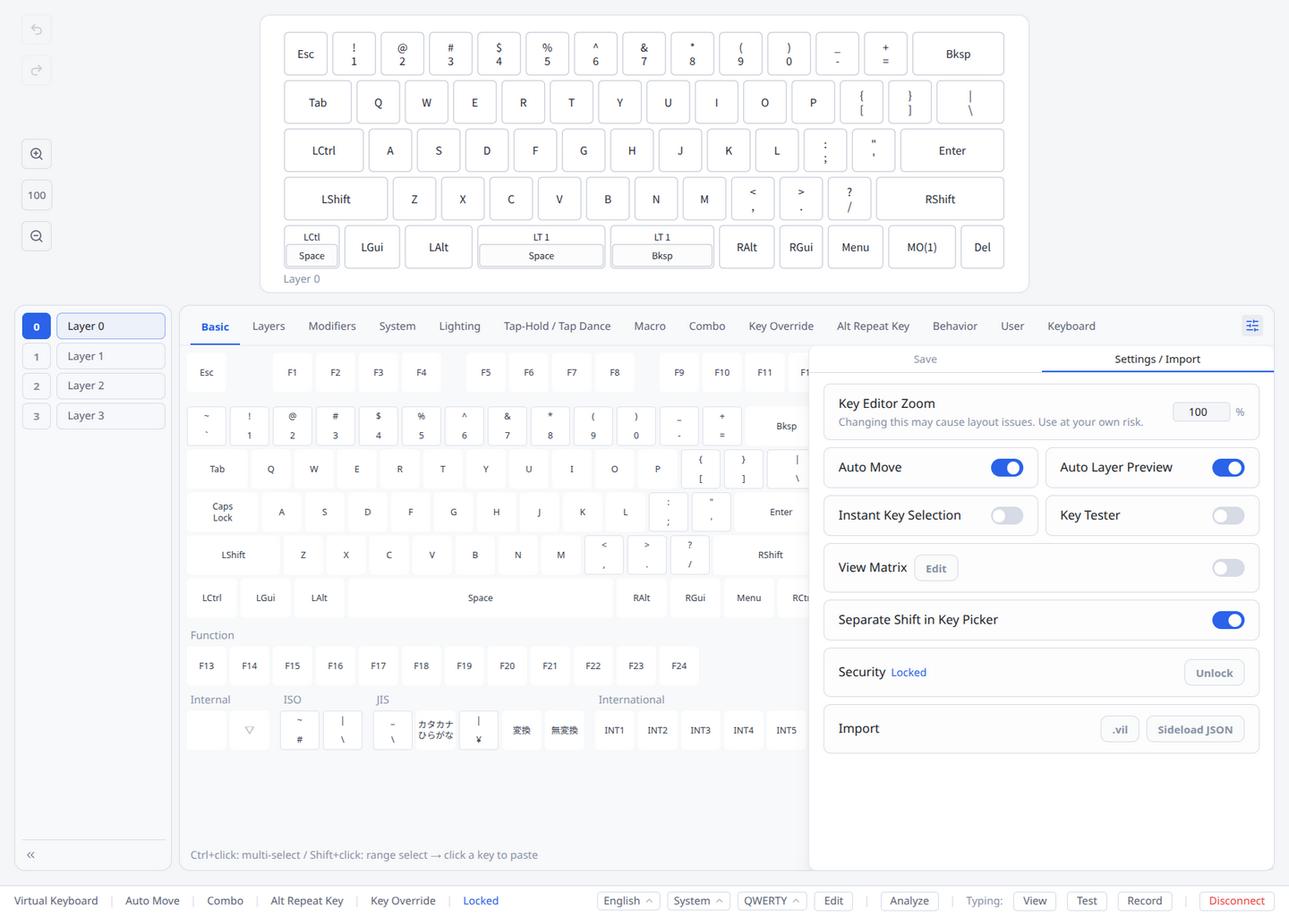
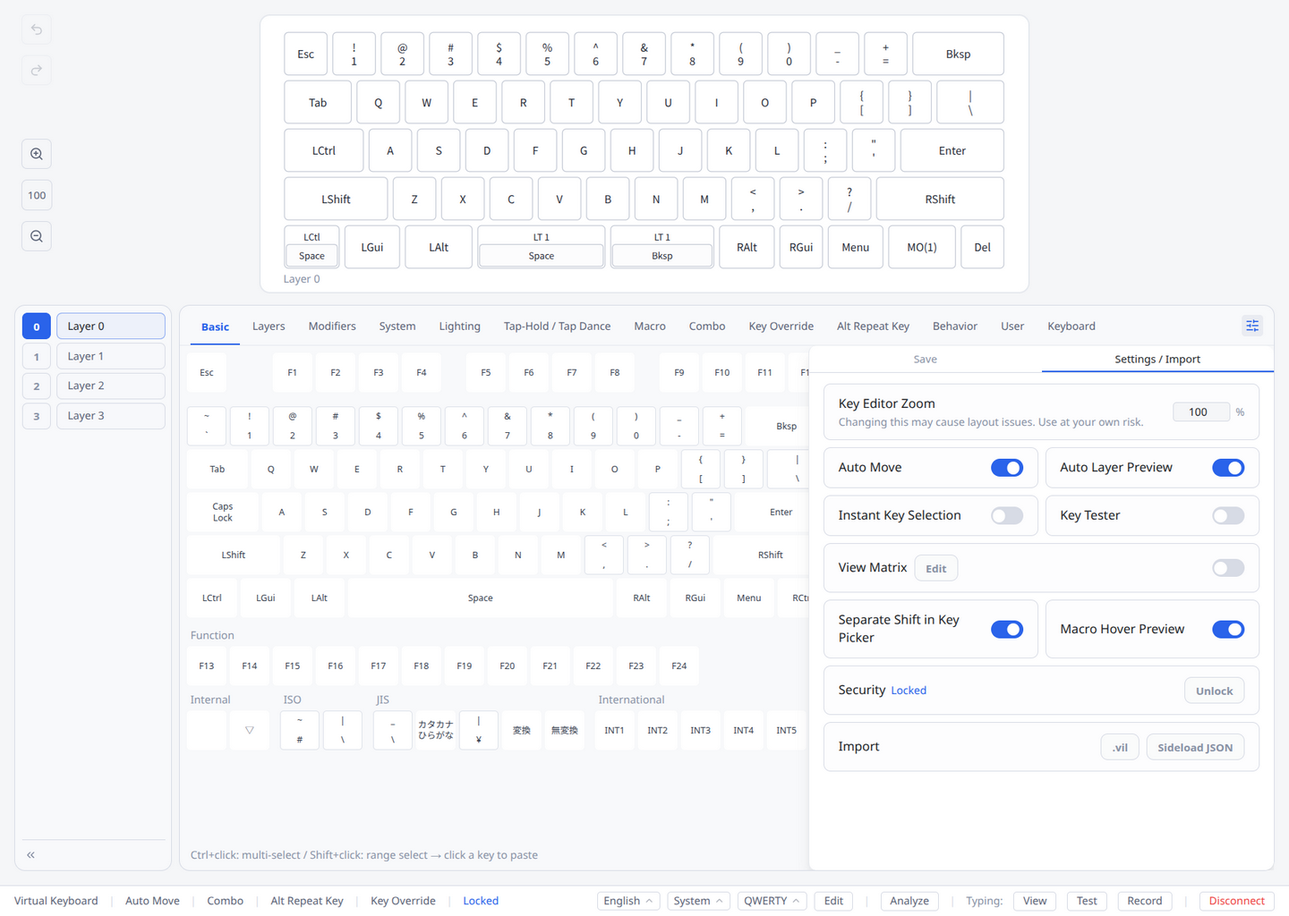
docs: describe the macro hover tooltip and the Macro Hover Preview setting

Changed region(s): [[0.75, 0.6562, 0.9688, 0.8438], [0.6562, 0.6875, 0.7188, 0.8438]]

diff --git a/docs/guide.html b/docs/guide.html
@@ -869,6 +869,9 @@ header {
 <p><strong>Layer preview on hover (Auto Layer Preview)</strong></p>
 <p>Rest the pointer on a layer key (<code class="ic">MO</code>, <code class="ic">LT</code>, <code class="ic">TG</code>, <code class="ic">TO</code>, <code class="ic">TT</code>, <code class="ic">OSL</code>, <code class="ic">DF</code>, <code class="ic">PDF</code>, <code class="ic">LM</code>) for about 0.3 seconds and the whole keyboard shows the layer that key switches to, with the label under the keymap reading "Preview - Layer N" (or "Preview - " followed by the layer's own name, if it has one). The preview is display only — the current layer, the key selection and the undo history don't change.</p>
 <ul><li>On keys with an inner part (e.g. <code class="ic">LT1(KC_SPC)</code>), only the upper (outer) part starts the preview; moving onto the inner key hides it so the inner key can be selected. The key under the pointer keeps showing its own content during the preview</li><li>Moving the pointer off the key returns to the current layer immediately</li><li>Clicks, double-clicks and middle-clicks always act on the current layer — the preview is dismissed first</li><li>Layer keys assigned to encoders don't start a preview</li><li>There is no preview in View Matrix mode, on the Key Label simulation tab, while keys are multi-selected, while palette keycodes are selected for pasting, or while the Key Popover is open</li><li>Turn it on or off with <strong>Auto Layer Preview</strong> in the Keycodes Overlay Panel's Settings / Import tab (§3.14). Saved and synced per keyboard; on by default</li></ul>
+<p><strong>Macro contents on hover (Macro Hover Preview)</strong></p>
+<p>Rest the pointer on a key whose keycode is a macro (<code class="ic">M0</code>, <code class="ic">M1</code>, …) for about 0.3 seconds and a tooltip shows the whole macro: its number, then every action on its own line with the same letters the Macro tab tiles use (<code class="ic">T</code> tap, <code class="ic">D</code> down, <code class="ic">U</code> up, <code class="ic">Tx</code> text, <code class="ic">W</code> wait) and the full keycodes or text, nothing cut off. This works while the keyboard is locked, so you can read a macro without unlocking it (editing a macro still requires unlocking).</p>
+<ul><li>The half of an encoder (clockwise or counter-clockwise) works the same way when that direction is assigned a macro</li><li>The macro is found from the key's actual keycode on the current layer, so a Key Label pack that relabels the key doesn't change which macro is shown</li><li>A long macro is split into several columns to fit on screen; long text wraps and keeps its spaces and line breaks</li><li>Empty macros show no tooltip</li><li>Nothing is shown in the same situations as the layer preview above (View Matrix mode, the Key Label simulation tab, multi-selected keys, palette keycodes selected for pasting, the Key Popover open). It doesn't depend on Auto Layer Preview — it still works with that turned off</li><li>The Macro tab tiles of the key picker show the same tooltip (§3.7)</li><li>Turn it on or off with <strong>Macro Hover Preview</strong> in the Keycodes Overlay Panel's Settings / Import tab (§3.14). Saved and synced per keyboard; on by default</li></ul>
 <h3 id="2-4-key-popover">2.4 Key Popover</h3>
 <p>Double-click a key on the keyboard layout to open the Key Popover — a quick way to search and assign keycodes without scrolling through the palette.</p>
 <p><strong>Layer Sidebar</strong></p>
@@ -966,7 +969,7 @@ header {
 <div class="img-wrap"><img src="screenshots/tab-macro.png" alt="Macro Tab" class="doc-img" loading="lazy"></div>
 <p>The Macro section displays a <strong>tile grid preview</strong> showing all entries at a glance:</p>
 <div class="img-wrap"><img src="screenshots/macro-tile-grid.png" alt="Macro Tile Grid" class="doc-img" loading="lazy"></div>
-<ul><li>Each tile shows the macro number and a preview of the recorded sequence</li><li>Configured entries display a summary of key actions; unconfigured tiles show the number only</li><li>Click a tile to open the Macro edit modal directly to that entry</li><li>Record sequences of key inputs as macros</li><li><strong>Edit JSON</strong> button at the bottom opens a JSON editor for bulk editing all entries (see §5.6)</li></ul>
+<ul><li>Each tile shows the macro number and a preview of the recorded sequence</li><li>Configured entries display a summary of key actions; unconfigured tiles show the number only</li><li>A tile has room for only a few actions and cuts long labels short. Rest the pointer on a configured tile for about 0.3 seconds to see the whole macro in a tooltip — every action, in full (the same tooltip as on the keymap, see §2.3). It works while the keyboard is locked, and also in the Macro tab of the key pickers inside the Tap Dance, Combo, Key Override, Alt Repeat Key and Macro editors. Turn it off with <strong>Macro Hover Preview</strong> (§3.14)</li><li>Click a tile to open the Macro edit modal directly to that entry</li><li>Record sequences of key inputs as macros</li><li><strong>Edit JSON</strong> button at the bottom opens a JSON editor for bulk editing all entries (see §5.6)</li></ul>
 <h4 id="macro-edit-modal-list-mode-and-edit-mode">Macro Edit Modal — List Mode and Edit Mode</h4>
 <p>Opening a macro action brings up the Macro Modal with two display modes that share the same row:</p>
 <ul><li><strong>List mode</strong> (default): The action's keycodes are shown as clickable tiles followed by a dashed <strong>add slot</strong>. Single-click a keycode tile to switch that index into edit mode. Single-click the dashed add slot to select it; double-click the dashed slot to open the keycode popover with an empty query (mirrors the keymap editor). The pencil "edit" icon from earlier versions is gone — clicking is the only affordance</li><li><strong>Edit mode</strong>: The keycode picker stays visible below the row. Each keycode tile shows a hover <strong>X</strong> button to delete that index, and the Tap row exposes a <strong>Close</strong> button to leave edit mode. Picker and popover selections are <strong>staged</strong> — they update the row visually but are not committed until you press the bottom <strong>Save</strong> button or <strong>Enter</strong>. The footer also shows a <strong>Revert</strong> ConfirmButton when you are editing an action that already existed (it is hidden when you just added the action via Add Action, since there is nothing prior to revert to). Save and Revert are disabled until a pick actually changes something. Pressing <strong>Escape</strong>, the per-row <strong>Close</strong> button, <strong>Revert</strong>, or clicking outside the picker / action list / footer / key popover rolls back the entire in-flight edit — including newly-appended Add-keycode slots or an entirely newly-added action — and leaves edit mode. Deleting a slot during edit shifts the selection so the session continues rather than exiting.</li></ul>
@@ -1022,8 +1025,8 @@ header {
 <p>The Keycodes Overlay Panel provides quick access to editor tools and save functions. Toggle it with the panel button at the right end of the keycode tab bar.</p>
 <p><strong>Settings / Import Tab</strong></p>
 <div class="img-wrap"><img src="screenshots/overlay-tools.png" alt="Overlay Panel — Settings / Import" class="doc-img" loading="lazy"></div>
-<p>Auto Move and Auto Layer Preview share one row, and Instant Key Selection and Key Tester share the next, two toggles side by side. The other settings take a full row each.</p>
-<ul><li><strong>Key Editor Zoom</strong>: Set the UI zoom level (50–200%) applied while in key editor mode. Defaults to the global UI zoom (§6.5) when not configured. Saved and synced per keyboard</li><li><strong>Auto Move</strong>: Toggle automatic advancement to the next key after assigning a keycode</li><li><strong>Auto Layer Preview</strong>: Toggle the layer preview shown while the pointer rests on a layer key (see §2.3). Saved and synced per keyboard; on by default</li><li><strong>Instant Key Selection</strong>: Toggle instant key selection mode (see §2.2 for behavior details)</li><li><strong>Key Tester</strong>: Toggle Matrix Tester mode (supported keyboards only)</li><li><strong>View Matrix</strong>: <strong>Edit</strong> / <strong>Done</strong> enters or leaves View Matrix mode to customize the Auto Move key order; the unlabelled toggle switch at the right edge of the same row (<strong>Wires</strong>) shows or hides the matrix wiring overlay on the keymap, independently of Edit mode (see §2.6)</li><li><strong>Separate Shift in Key Picker</strong>: Toggle split display for combined keycodes (e.g., show Mod-Tap as two halves)</li><li><strong>Security</strong>: Shows lock status (Locked/Unlocked) with a button that follows it — <strong>Unlock</strong> while locked, <strong>Lock</strong> while unlocked. Unlock opens the Unlock dialog (stays disabled until the lock status has been confirmed, to avoid opening it against a stale placeholder state). Lock locks immediately if Typing Record (§4.3) is off; if Typing Record is on, it instead asks for confirmation ("Turn off Record and lock?") and, once confirmed, turns Record off before locking</li><li><strong>Import</strong>: Restore from <code class="ic">.vil</code> files or sideload custom JSON definitions. Restoring a <code class="ic">.vil</code> file writes it to the keyboard field by field; if a write fails partway through, Pipette writes back the keyboard state it was holding just before the restore started — the state shown in the editor, not a fresh read from the device (this assumes the keyboard's shape hasn't changed — it is not a guaranteed byte-exact restore) and shows one of two messages depending on whether that write-back itself succeeded: <strong>"Writing to the keyboard failed. The previous settings were restored."</strong>, or, if the write-back also failed, <strong>"Writing to the keyboard failed and the previous settings could not be restored. Reconnect the keyboard and load a saved snapshot."</strong> This and every other error shown in the bar below the editor (failed save, failed load, failed sideload) clears itself after about 10 seconds, or immediately via its own × button. The red error boxes on the device selection screen (failed device connection, failed file load) and in the Keyboard tab's File source (§3.13) behave the same way, clearing after about 10 seconds or immediately via their own × button</li><li><strong>Reset Keyboard Data</strong>: Reset keyboard to factory defaults</li></ul>
+<p>Auto Move and Auto Layer Preview share one row, Instant Key Selection and Key Tester share the next, and Separate Shift in Key Picker and Macro Hover Preview share another, two toggles side by side. The other settings take a full row each.</p>
+<ul><li><strong>Key Editor Zoom</strong>: Set the UI zoom level (50–200%) applied while in key editor mode. Defaults to the global UI zoom (§6.5) when not configured. Saved and synced per keyboard</li><li><strong>Auto Move</strong>: Toggle automatic advancement to the next key after assigning a keycode</li><li><strong>Auto Layer Preview</strong>: Toggle the layer preview shown while the pointer rests on a layer key (see §2.3). Saved and synced per keyboard; on by default</li><li><strong>Instant Key Selection</strong>: Toggle instant key selection mode (see §2.2 for behavior details)</li><li><strong>Key Tester</strong>: Toggle Matrix Tester mode (supported keyboards only)</li><li><strong>View Matrix</strong>: <strong>Edit</strong> / <strong>Done</strong> enters or leaves View Matrix mode to customize the Auto Move key order; the unlabelled toggle switch at the right edge of the same row (<strong>Wires</strong>) shows or hides the matrix wiring overlay on the keymap, independently of Edit mode (see §2.6)</li><li><strong>Separate Shift in Key Picker</strong>: Toggle split display for combined keycodes (e.g., show Mod-Tap as two halves)</li><li><strong>Macro Hover Preview</strong>: Toggle the tooltip that shows a macro's full contents while the pointer rests on a macro key, a macro encoder direction or a Macro tab tile (see §2.3 and §3.7). Saved and synced per keyboard; on by default</li><li><strong>Security</strong>: Shows lock status (Locked/Unlocked) with a button that follows it — <strong>Unlock</strong> while locked, <strong>Lock</strong> while unlocked. Unlock opens the Unlock dialog (stays disabled until the lock status has been confirmed, to avoid opening it against a stale placeholder state). Lock locks immediately if Typing Record (§4.3) is off; if Typing Record is on, it instead asks for confirmation ("Turn off Record and lock?") and, once confirmed, turns Record off before locking</li><li><strong>Import</strong>: Restore from <code class="ic">.vil</code> files or sideload custom JSON definitions. Restoring a <code class="ic">.vil</code> file writes it to the keyboard field by field; if a write fails partway through, Pipette writes back the keyboard state it was holding just before the restore started — the state shown in the editor, not a fresh read from the device (this assumes the keyboard's shape hasn't changed — it is not a guaranteed byte-exact restore) and shows one of two messages depending on whether that write-back itself succeeded: <strong>"Writing to the keyboard failed. The previous settings were restored."</strong>, or, if the write-back also failed, <strong>"Writing to the keyboard failed and the previous settings could not be restored. Reconnect the keyboard and load a saved snapshot."</strong> This and every other error shown in the bar below the editor (failed save, failed load, failed sideload) clears itself after about 10 seconds, or immediately via its own × button. The red error boxes on the device selection screen (failed device connection, failed file load) and in the Keyboard tab's File source (§3.13) behave the same way, clearing after about 10 seconds or immediately via their own × button</li><li><strong>Reset Keyboard Data</strong>: Reset keyboard to factory defaults</li></ul>
 <p><strong>Save Tab</strong></p>
 <div class="img-wrap"><img src="screenshots/overlay-save.png" alt="Overlay Panel — Save" class="doc-img" loading="lazy"></div>
 <ul><li><strong>Export Current State</strong>: Download keymap as <code class="ic">.vil</code>, <code class="ic">keymap.c</code>, PDF keymap cheat sheet, or PDF layout export (key outlines with summary pages for Tap Dance, Macro, Combo, Key Override, and Alt Repeat Key entries)</li><li><strong>Save Current State</strong>: Save a snapshot of the current keyboard state with a label</li><li><strong>Synced Data</strong>: List of saved snapshots with Load, Rename, Delete, and Export actions. A Load that fails partway through is handled the same way as <code class="ic">.vil</code> Import above — the same pre-load write-back, and the same two possible messages</li><li>This is the same Save panel as the standalone editor settings (§6)</li></ul>
@@ -1795,6 +1798,9 @@ header {
 <p><strong>ホバーでレイヤーをプレビュー（Auto Layer Preview）</strong></p>
 <p>レイヤーキー（<code class="ic">MO</code>、<code class="ic">LT</code>、<code class="ic">TG</code>、<code class="ic">TO</code>、<code class="ic">TT</code>、<code class="ic">OSL</code>、<code class="ic">DF</code>、<code class="ic">PDF</code>、<code class="ic">LM</code>）にポインターを約 0.3 秒置くと、キーボード全体がそのキーの切り替え先レイヤーの表示になり、キーマップ下のラベルが「Preview - Layer N」（レイヤーに名前を付けている場合は「Preview - 」の後にその名前）になります。表示だけの機能で、現在のレイヤー・キーの選択・undo 履歴は変わりません。</p>
 <ul><li>内側にキーがあるキー（例: <code class="ic">LT1(KC_SPC)</code>）では、上側（外側）の部分だけがプレビューを始めます。内側のキーへ移るとプレビューが消えるので、内側のキーをそのまま選択できます。プレビュー中も、ポインターを置いているキー自身は元の内容のまま表示されます</li><li>キーからポインターを外すと、すぐに現在のレイヤーの表示に戻ります</li><li>クリック・ダブルクリック・中クリックは常に現在のレイヤーに対して働きます（先にプレビューを消します）</li><li>エンコーダーに割り当てたレイヤーキーではプレビューは出ません</li><li>View Matrix モード中、Key Label のシミュレーションタブ、複数キーの選択中、パレットのキーコードをペースト用に選択している間、キーポップオーバーを開いている間はプレビューは出ません</li><li>キーコードオーバーレイパネルの Settings / Import タブにある <strong>Auto Layer Preview</strong> でオン/オフを切り替えます (§3.14)。キーボード単位で保存・同期され、既定はオンです</li></ul>
+<p><strong>ホバーでマクロの中身を表示（Macro Hover Preview）</strong></p>
+<p>キーコードがマクロ（<code class="ic">M0</code>、<code class="ic">M1</code>、…）のキーにポインターを約 0.3 秒置くと、ツールチップにマクロ全体が表示されます。マクロ番号の下に、全アクションを 1 行ずつ、Macro タブのタイルと同じ記号（<code class="ic">T</code> タップ、<code class="ic">D</code> 押下、<code class="ic">U</code> 解放、<code class="ic">Tx</code> テキスト、<code class="ic">W</code> 待機）と省略なしのキーコード・テキストで表示します。キーボードがロック中でも表示されるので、アンロックせずにマクロの中身を確認できます（マクロの編集には引き続きアンロックが必要です）。</p>
+<ul><li>エンコーダーの半分（時計回り・反時計回り）も、その方向にマクロを割り当てていれば同じように表示されます</li><li>どのマクロかはキーの現在のレイヤーでの実際のキーコードで判定するので、Key Label パックで表示が置き換わっていても表示されるマクロは変わりません</li><li>長いマクロは画面に収まるように複数の列に分けて表示します。長いテキストは折り返し、空白と改行はそのまま表示します</li><li>空のマクロではツールチップは出ません</li><li>上のレイヤープレビューと同じ場面（View Matrix モード中、Key Label のシミュレーションタブ、複数キーの選択中、パレットのキーコードをペースト用に選択している間、キーポップオーバーを開いている間）では表示されません。Auto Layer Preview とは独立していて、そちらをオフにしても表示されます</li><li>キーピッカーの Macro タブのタイルでも同じツールチップが表示されます (§3.7)</li><li>キーコードオーバーレイパネルの Settings / Import タブにある <strong>Macro Hover Preview</strong> でオン/オフを切り替えます (§3.14)。キーボード単位で保存・同期され、既定はオンです</li></ul>
 <h3 id="2-4-キーポップオーバー">2.4 キーポップオーバー</h3>
 <p>キーボードレイアウト上のキーをダブルクリックすると、キーポップオーバーが開きます。パレットをスクロールせずに、素早くキーコードを検索・割り当てできます。</p>
 <p><strong>レイヤーサイドバー</strong></p>
@@ -1892,7 +1898,7 @@ header {
 <div class="img-wrap"><img src="screenshots/tab-macro.png" alt="Macro タブ" class="doc-img" loading="lazy"></div>
 <p>Macro セクションは全エントリを一覧表示する<strong>タイルグリッドプレビュー</strong>を備えています:</p>
 <div class="img-wrap"><img src="screenshots/macro-tile-grid.png" alt="Macro タイルグリッド" class="doc-img" loading="lazy"></div>
-<ul><li>各タイルにはマクロ番号と記録されたシーケンスのプレビューが表示されます</li><li>設定済みエントリはキーアクションの概要を表示し、未設定タイルは番号のみ表示</li><li>タイルをクリックして対応するエントリの Macro 編集モーダルを直接開きます</li><li>キー入力のシーケンスをマクロとして登録できます</li><li>下部の <strong>Edit JSON</strong> ボタンで全エントリを JSON として一括編集できます (§5.6)</li></ul>
+<ul><li>各タイルにはマクロ番号と記録されたシーケンスのプレビューが表示されます</li><li>設定済みエントリはキーアクションの概要を表示し、未設定タイルは番号のみ表示</li><li>タイルに表示できるアクションは数行までで、長いラベルは途中で切れます。設定済みのタイルにポインターを約 0.3 秒置くと、ツールチップにマクロ全体（全アクションを省略なし）が表示されます（キーマップ上と同じツールチップ、§2.3 参照）。キーボードがロック中でも表示され、Tap Dance・Combo・Key Override・Alt Repeat Key・Macro の各エディタ内のキーピッカーの Macro タブでも表示されます。<strong>Macro Hover Preview</strong> でオフにできます (§3.14)</li><li>タイルをクリックして対応するエントリの Macro 編集モーダルを直接開きます</li><li>キー入力のシーケンスをマクロとして登録できます</li><li>下部の <strong>Edit JSON</strong> ボタンで全エントリを JSON として一括編集できます (§5.6)</li></ul>
 <h4 id="macro-編集モーダル-リストモードと編集モード">Macro 編集モーダル — リストモードと編集モード</h4>
 <p>マクロアクションを開くと、Macro モーダルの同じ行が 2 つの表示モードを持ちます:</p>
 <ul><li><strong>リストモード</strong>（デフォルト）: アクションのキーコードはクリック可能なタイルとして表示され、末尾に点線の <strong>追加スロット</strong>が続きます。キーコードタイルを<strong>単クリック</strong>するとその位置が編集モードに切り替わります。点線スロットを<strong>単クリック</strong>で選択、<strong>ダブルクリック</strong>で空クエリのキーコードポップオーバーが開きます（キーマップエディタと同じ挙動）。以前の鉛筆「編集」アイコンは廃止され、クリックだけが操作手段です</li><li><strong>編集モード</strong>: キーコードピッカーが行の下に常時表示されます。各キーコードタイルにはホバー時の <strong>×</strong> 削除ボタンが表示され、Tap 行には編集モードを抜ける <strong>Close</strong> ボタンが表示されます。ピッカーやキーコードポップオーバーでの選択は <strong>ステージング</strong> され、行の見た目は更新されますが、下部の <strong>Save</strong> ボタンまたは <strong>Enter</strong> キーを押すまではコミットされません。フッターには、既存アクションを編集中のときのみ <strong>Revert</strong> ConfirmButton が追加表示されます（Add Action で新しく追加したアクションを編集している場合は、戻す先がないため Revert は非表示）。Save と Revert は、ピックによって実際に変更が生じるまでは disabled です。<strong>Escape</strong>・行の <strong>Close</strong> ボタン・<strong>Revert</strong>・ピッカー / アクションリスト / フッター / キーポップオーバー以外をクリックすると、Add keycode で追加したスロットや新規追加アクション丸ごとまで含めて <strong>in-flight 編集をすべてロールバック</strong> し、編集モードを抜けます。編集中にスロットを削除した場合は、セッションを抜けずに選択位置をずらして編集を継続します。</li></ul>
@@ -1948,8 +1954,8 @@ header {
 <p>キーコードオーバーレイパネルはエディタツールと保存機能への素早いアクセスを提供します。キーコードタブバー右端のパネルボタンでトグルします。</p>
 <p><strong>Settings / Import タブ</strong></p>
 <div class="img-wrap"><img src="screenshots/overlay-tools.png" alt="オーバーレイパネル — Settings / Import" class="doc-img" loading="lazy"></div>
-<p>Auto Move と Auto Layer Preview、Instant Key Selection と Key Tester はそれぞれ 1 行に 2 つ並びます。それ以外の設定は 1 行ずつです。</p>
-<ul><li><strong>Key Editor Zoom</strong>: キーエディタ画面のみに適用される UI 表示倍率（50–200%）。未設定時はグローバル UI ズーム (§6.5) が使用されます。キーボード単位で保存・同期されます</li><li><strong>Auto Move</strong>: キーコード割り当て後に次のキーへ自動移動する機能の切替</li><li><strong>Auto Layer Preview</strong>: レイヤーキーにポインターを置いた時のレイヤープレビューの切替 (§2.3 参照)。キーボード単位で保存・同期され、既定はオン</li><li><strong>Instant Key Selection</strong>: キーの即時選択モードの切替 (動作の詳細は §2.2 参照)</li><li><strong>Key Tester</strong>: Matrix Tester モードの切替 (対応キーボードのみ)</li><li><strong>View Matrix</strong>: <strong>Edit</strong> / <strong>Done</strong> で View Matrix モードの開始/終了 — Auto Move のキー移動順をカスタマイズ。同じ行の右端にあるラベル無しのトグルスイッチ（<strong>配線</strong>）は、Edit モードとは独立にキーマップ上の配線オーバーレイの表示/非表示を切り替える (§2.6 参照)</li><li><strong>キーピッカーでShiftキーを分離</strong>: 複合キーコードの分割表示を切替 (例: Mod-Tap を 2 つに分けて表示)</li><li><strong>Security</strong>: ロック状態 (Locked/Unlocked) の表示と、それに連動するボタン — ロック中は <strong>Unlock</strong>、アンロック中は <strong>Lock</strong> になります。Unlock は Unlock ダイアログを開きます（ロック状態が確定するまでは無効のまま — 未確定の仮の状態に対してダイアログを開いてしまわないための措置です）。Lock は Typing Record（§4.3）が OFF ならそのまま即座にロックし、ON の場合は確認ダイアログ（「Turn off Record and lock?」）を表示し、確定すると Record を OFF にしてからロックします</li><li><strong>Import</strong>: <code class="ic">.vil</code> ファイルからの復元、またはカスタム JSON 定義のサイドロード。<code class="ic">.vil</code> ファイルの復元はその内容をフィールドごとにキーボードへ書き込みます。途中で書き込みが失敗した場合、Pipette は復元を開始する直前にアプリが保持していたキーボードの状態（エディタに表示されていた状態で、デバイスから読み直したものではありません）を書き戻します（キーボードの形状が変わっていないことを前提とした処理で、バイト単位で完全に元通りになることを保証するものではありません）。その書き戻し自体が成功したかどうかに応じて、次のいずれかのメッセージが表示されます: <strong>「Writing to the keyboard failed. The previous settings were restored.」</strong>、または書き戻しも失敗した場合は <strong>「Writing to the keyboard failed and the previous settings could not be restored. Reconnect the keyboard and load a saved snapshot.」</strong> このメッセージを含め、エディタ下部の帯に表示されるエラー（保存失敗・読み込み失敗・サイドロード失敗）はすべて約10秒で自動的に消えるか、それぞれの × ボタンで即座に閉じられます。デバイス選択画面の赤いエラーボックス（デバイス接続失敗・ファイル読み込み失敗）や Keyboard タブの File ソース（§3.13）のエラーボックスも同様に、約10秒で自動的に消えるか、それぞれの × ボタンで即座に閉じられます</li><li><strong>Reset Keyboard Data</strong>: キーボードを初期状態に戻す</li></ul>
+<p>Auto Move と Auto Layer Preview、Instant Key Selection と Key Tester、キーピッカーでShiftキーを分離 と Macro Hover Preview はそれぞれ 1 行に 2 つ並びます。それ以外の設定は 1 行ずつです。</p>
+<ul><li><strong>Key Editor Zoom</strong>: キーエディタ画面のみに適用される UI 表示倍率（50–200%）。未設定時はグローバル UI ズーム (§6.5) が使用されます。キーボード単位で保存・同期されます</li><li><strong>Auto Move</strong>: キーコード割り当て後に次のキーへ自動移動する機能の切替</li><li><strong>Auto Layer Preview</strong>: レイヤーキーにポインターを置いた時のレイヤープレビューの切替 (§2.3 参照)。キーボード単位で保存・同期され、既定はオン</li><li><strong>Instant Key Selection</strong>: キーの即時選択モードの切替 (動作の詳細は §2.2 参照)</li><li><strong>Key Tester</strong>: Matrix Tester モードの切替 (対応キーボードのみ)</li><li><strong>View Matrix</strong>: <strong>Edit</strong> / <strong>Done</strong> で View Matrix モードの開始/終了 — Auto Move のキー移動順をカスタマイズ。同じ行の右端にあるラベル無しのトグルスイッチ（<strong>配線</strong>）は、Edit モードとは独立にキーマップ上の配線オーバーレイの表示/非表示を切り替える (§2.6 参照)</li><li><strong>キーピッカーでShiftキーを分離</strong>: 複合キーコードの分割表示を切替 (例: Mod-Tap を 2 つに分けて表示)</li><li><strong>Macro Hover Preview</strong>: マクロキー・マクロを割り当てたエンコーダーの方向・Macro タブのタイルにポインターを置いた時に、マクロの中身をすべて表示するツールチップの切替 (§2.3・§3.7 参照)。キーボード単位で保存・同期され、既定はオン</li><li><strong>Security</strong>: ロック状態 (Locked/Unlocked) の表示と、それに連動するボタン — ロック中は <strong>Unlock</strong>、アンロック中は <strong>Lock</strong> になります。Unlock は Unlock ダイアログを開きます（ロック状態が確定するまでは無効のまま — 未確定の仮の状態に対してダイアログを開いてしまわないための措置です）。Lock は Typing Record（§4.3）が OFF ならそのまま即座にロックし、ON の場合は確認ダイアログ（「Turn off Record and lock?」）を表示し、確定すると Record を OFF にしてからロックします</li><li><strong>Import</strong>: <code class="ic">.vil</code> ファイルからの復元、またはカスタム JSON 定義のサイドロード。<code class="ic">.vil</code> ファイルの復元はその内容をフィールドごとにキーボードへ書き込みます。途中で書き込みが失敗した場合、Pipette は復元を開始する直前にアプリが保持していたキーボードの状態（エディタに表示されていた状態で、デバイスから読み直したものではありません）を書き戻します（キーボードの形状が変わっていないことを前提とした処理で、バイト単位で完全に元通りになることを保証するものではありません）。その書き戻し自体が成功したかどうかに応じて、次のいずれかのメッセージが表示されます: <strong>「Writing to the keyboard failed. The previous settings were restored.」</strong>、または書き戻しも失敗した場合は <strong>「Writing to the keyboard failed and the previous settings could not be restored. Reconnect the keyboard and load a saved snapshot.」</strong> このメッセージを含め、エディタ下部の帯に表示されるエラー（保存失敗・読み込み失敗・サイドロード失敗）はすべて約10秒で自動的に消えるか、それぞれの × ボタンで即座に閉じられます。デバイス選択画面の赤いエラーボックス（デバイス接続失敗・ファイル読み込み失敗）や Keyboard タブの File ソース（§3.13）のエラーボックスも同様に、約10秒で自動的に消えるか、それぞれの × ボタンで即座に閉じられます</li><li><strong>Reset Keyboard Data</strong>: キーボードを初期状態に戻す</li></ul>
 <p><strong>Save タブ</strong></p>
 <div class="img-wrap"><img src="screenshots/overlay-save.png" alt="オーバーレイパネル — Save" class="doc-img" loading="lazy"></div>
 <ul><li><strong>Export Current State</strong>: キーマップを <code class="ic">.vil</code>、<code class="ic">keymap.c</code>、PDF キーマップチートシート、PDF レイアウトエクスポート（キーアウトラインと Tap Dance・Macro・Combo・Key Override・Alt Repeat Key のサマリーページ付き）としてダウンロード</li><li><strong>Save Current State</strong>: 現在のキーボード状態をラベル付きで保存</li><li><strong>Synced Data</strong>: 保存済みスナップショットの一覧。Load・Rename・Delete・Export の操作が可能。Load が途中で失敗した場合も上の <code class="ic">.vil</code> Import と同様に扱われます — 同じ書き戻し処理、同じ 2 種類のメッセージです</li><li>エディタ設定パネル (§6) と同じ Save パネルです</li></ul>

diff --git a/docs/OPERATION-GUIDE.md b/docs/OPERATION-GUIDE.md
@@ -775,6 +775,18 @@ Rest the pointer on a layer key (`MO`, `LT`, `TG`, `TO`, `TT`, `OSL`, `DF`, `PDF
 - There is no preview in View Matrix mode, on the Key Label simulation tab, while keys are multi-selected, while palette keycodes are selected for pasting, or while the Key Popover is open
 - Turn it on or off with **Auto Layer Preview** in the Keycodes Overlay Panel's Settings / Import tab (§3.14). Saved and synced per keyboard; on by default
 
+**Macro contents on hover (Macro Hover Preview)**
+
+Rest the pointer on a key whose keycode is a macro (`M0`, `M1`, …) for about 0.3 seconds and a tooltip shows the whole macro: its number, then every action on its own line with the same letters the Macro tab tiles use (`T` tap, `D` down, `U` up, `Tx` text, `W` wait) and the full keycodes or text, nothing cut off. This works while the keyboard is locked, so you can read a macro without unlocking it (editing a macro still requires unlocking).
+
+- The half of an encoder (clockwise or counter-clockwise) works the same way when that direction is assigned a macro
+- The macro is found from the key's actual keycode on the current layer, so a Key Label pack that relabels the key doesn't change which macro is shown
+- A long macro is split into several columns to fit on screen; long text wraps and keeps its spaces and line breaks
+- Empty macros show no tooltip
+- Nothing is shown in the same situations as the layer preview above (View Matrix mode, the Key Label simulation tab, multi-selected keys, palette keycodes selected for pasting, the Key Popover open). It doesn't depend on Auto Layer Preview — it still works with that turned off
+- The Macro tab tiles of the key picker show the same tooltip (§3.7)
+- Turn it on or off with **Macro Hover Preview** in the Keycodes Overlay Panel's Settings / Import tab (§3.14). Saved and synced per keyboard; on by default
+
 ### 2.4 Key Popover
 
 Double-click a key on the keyboard layout to open the Key Popover — a quick way to search and assign keycodes without scrolling through the palette.
@@ -1018,6 +1030,7 @@ The Macro section displays a **tile grid preview** showing all entries at a glan
 
 - Each tile shows the macro number and a preview of the recorded sequence
 - Configured entries display a summary of key actions; unconfigured tiles show the number only
+- A tile has room for only a few actions and cuts long labels short. Rest the pointer on a configured tile for about 0.3 seconds to see the whole macro in a tooltip — every action, in full (the same tooltip as on the keymap, see §2.3). It works while the keyboard is locked, and also in the Macro tab of the key pickers inside the Tap Dance, Combo, Key Override, Alt Repeat Key and Macro editors. Turn it off with **Macro Hover Preview** (§3.14)
 - Click a tile to open the Macro edit modal directly to that entry
 - Record sequences of key inputs as macros
 - **Edit JSON** button at the bottom opens a JSON editor for bulk editing all entries (see §5.6)
@@ -1158,7 +1171,7 @@ The Keycodes Overlay Panel provides quick access to editor tools and save functi
 
 ![Overlay Panel — Settings / Import](screenshots/overlay-tools.png)
 
-Auto Move and Auto Layer Preview share one row, and Instant Key Selection and Key Tester share the next, two toggles side by side. The other settings take a full row each.
+Auto Move and Auto Layer Preview share one row, Instant Key Selection and Key Tester share the next, and Separate Shift in Key Picker and Macro Hover Preview share another, two toggles side by side. The other settings take a full row each.
 
 - **Key Editor Zoom**: Set the UI zoom level (50–200%) applied while in key editor mode. Defaults to the global UI zoom (§6.5) when not configured. Saved and synced per keyboard
 - **Auto Move**: Toggle automatic advancement to the next key after assigning a keycode
@@ -1167,6 +1180,7 @@ Auto Move and Auto Layer Preview share one row, and Instant Key Selection and Ke
 - **Key Tester**: Toggle Matrix Tester mode (supported keyboards only)
 - **View Matrix**: **Edit** / **Done** enters or leaves View Matrix mode to customize the Auto Move key order; the unlabelled toggle switch at the right edge of the same row (**Wires**) shows or hides the matrix wiring overlay on the keymap, independently of Edit mode (see §2.6)
 - **Separate Shift in Key Picker**: Toggle split display for combined keycodes (e.g., show Mod-Tap as two halves)
+- **Macro Hover Preview**: Toggle the tooltip that shows a macro's full contents while the pointer rests on a macro key, a macro encoder direction or a Macro tab tile (see §2.3 and §3.7). Saved and synced per keyboard; on by default
 - **Security**: Shows lock status (Locked/Unlocked) with a button that follows it — **Unlock** while locked, **Lock** while unlocked. Unlock opens the Unlock dialog (stays disabled until the lock status has been confirmed, to avoid opening it against a stale placeholder state). Lock locks immediately if Typing Record (§4.3) is off; if Typing Record is on, it instead asks for confirmation ("Turn off Record and lock?") and, once confirmed, turns Record off before locking
 - **Import**: Restore from `.vil` files or sideload custom JSON definitions. Restoring a `.vil` file writes it to the keyboard field by field; if a write fails partway through, Pipette writes back the keyboard state it was holding just before the restore started — the state shown in the editor, not a fresh read from the device (this assumes the keyboard's shape hasn't changed — it is not a guaranteed byte-exact restore) and shows one of two messages depending on whether that write-back itself succeeded: **"Writing to the keyboard failed. The previous settings were restored."**, or, if the write-back also failed, **"Writing to the keyboard failed and the previous settings could not be restored. Reconnect the keyboard and load a saved snapshot."** This and every other error shown in the bar below the editor (failed save, failed load, failed sideload) clears itself after about 10 seconds, or immediately via its own × button. The red error boxes on the device selection screen (failed device connection, failed file load) and in the Keyboard tab's File source (§3.13) behave the same way, clearing after about 10 seconds or immediately via their own × button
 - **Reset Keyboard Data**: Reset keyboard to factory defaults
